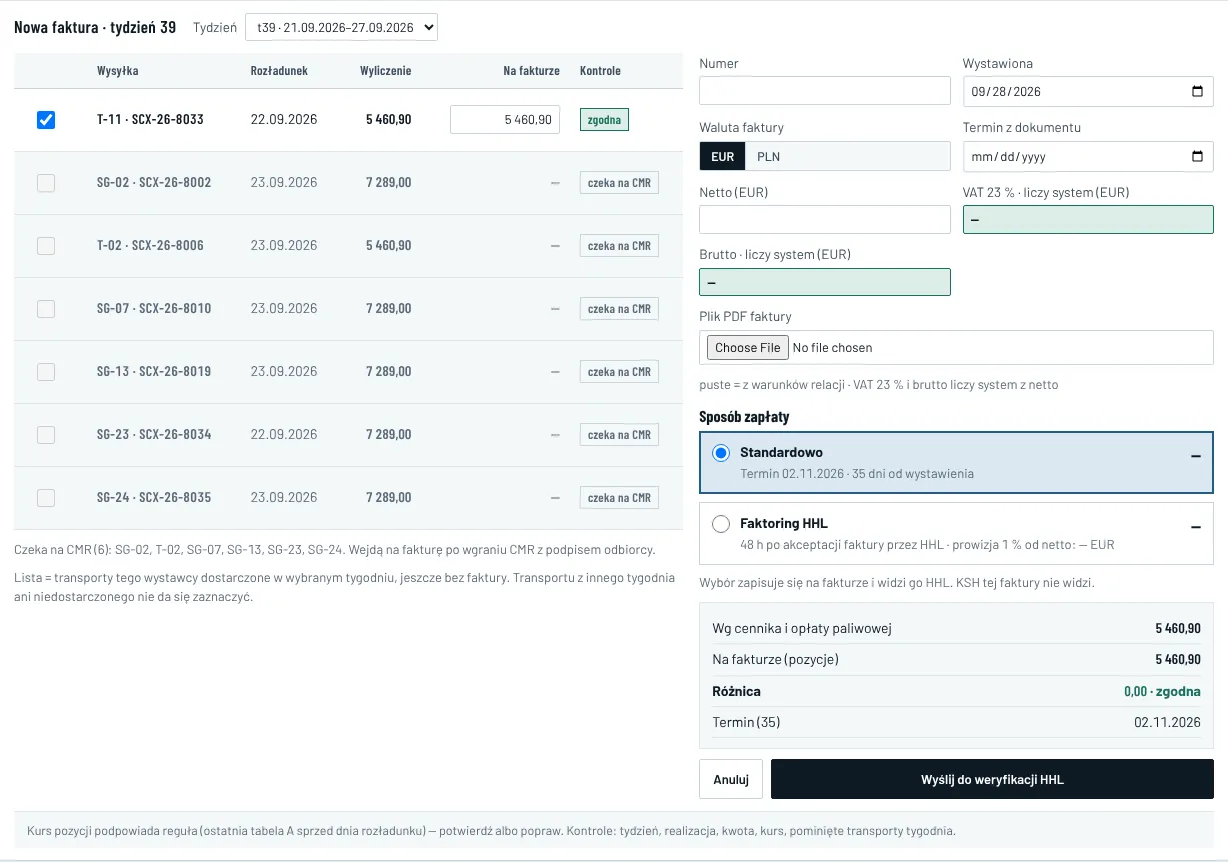
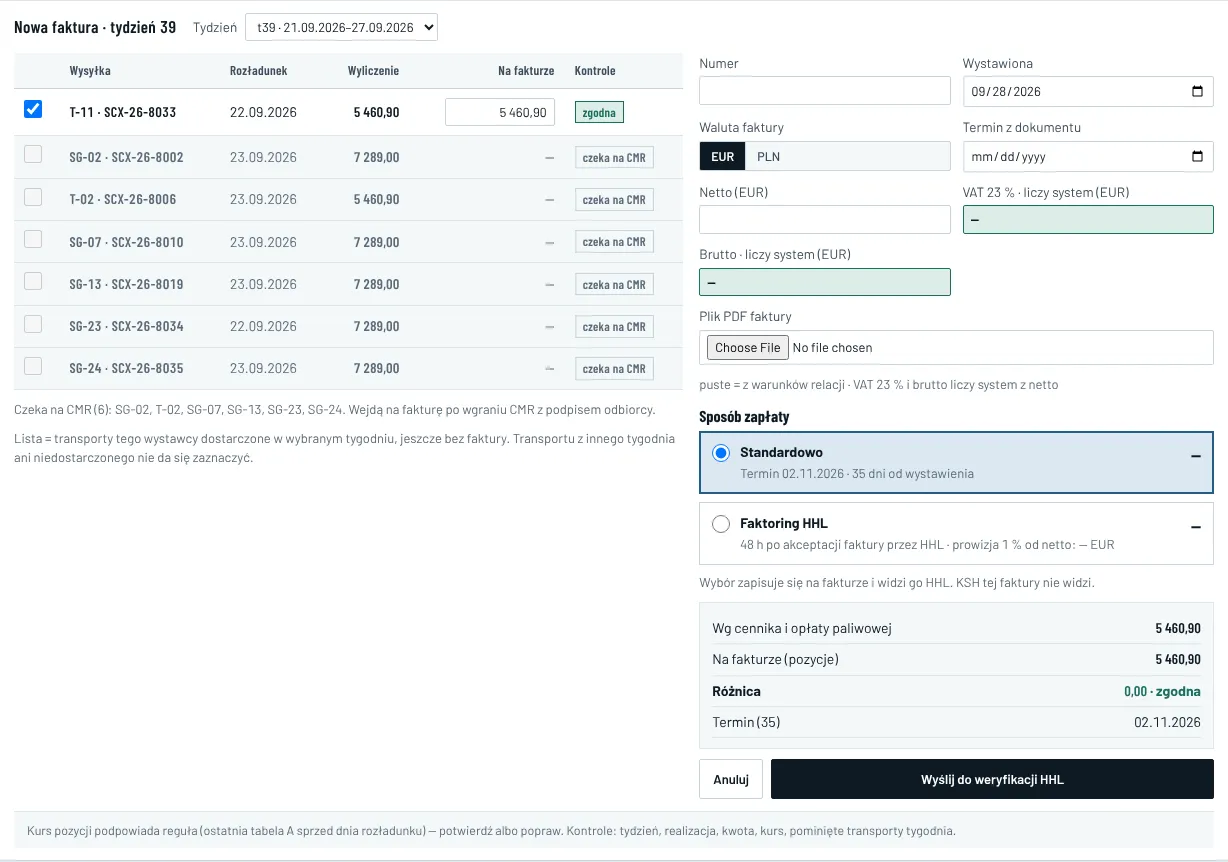
wyglad/W-naprawy: druga runda F7 — „jako” na osi Status jak w Historii, 44 px tylko na telefonie
- StatusAxisTab: autor „jako” przez whoOf (pełna nazwa firmy, jak Historia) + test;
- pole wyboru pozycji: cel 44 px tylko na telefonie; etykieta „Dodaj” (nie myli się z „Na fakturze”);
- pusta faktura: „0,00” bez czerwieni;
- „Daty KSH do sprawdzenia” krócej; KSH_DATES_CHECK, DELIVERED_CHECK, CMR_UPLOAD na liście spraw (DECISION_TYPES);
- dopisek 1450 i POROWNANIE zaktualizowane, obrazy odświeżone.

Claude-Session: https://claude.ai/code/session_01S36qMbEWpRWj55jt4pBR6E

diff --git a/src/views/BillsPanel.tsx b/src/views/BillsPanel.tsx
@@ -736,7 +736,7 @@ function BillWizard({ direction, onDone }: { direction: BillDirection; onDone: (
           <dl className="inv-sum" data-deur-exempt="invoice-currency">
             <div><dt>{ft(locale, 'p5_inv_form_sum_exp')}</dt><dd><Amount n={chk.expectedTotal} cur={currency} /></dd></div>
             <div><dt>{ft(locale, 'p5_inv_form_sum_inv')}</dt><dd><Amount n={chk.invoicedTotal} cur={currency} /></dd></div>
-            <div className="strong"><dt>{ft(locale, 'p5_inv_form_sum_diff')}</dt><dd className={sumOk ? 'inv-ok' : 'neg'} data-w-sum-ok={sumOk ? 'tak' : 'nie'}><Amount n={diff} cur={currency} />{sumOk ? ` · ${ft(locale, 'p5_inv_form_sum_ok')}` : ''}</dd></div>
+            <div className="strong"><dt>{ft(locale, 'p5_inv_form_sum_diff')}</dt><dd className={sumOk ? 'inv-ok' : chk.lines.length ? 'neg' : undefined} data-w-sum-ok={sumOk ? 'tak' : 'nie'}><Amount n={diff} cur={currency} />{sumOk ? ` · ${ft(locale, 'p5_inv_form_sum_ok')}` : ''}</dd></div>
             <div><dt>{t(locale, 'bill_col_due')} ({BILL_TERM_DAYS[direction]})</dt><dd>{fmtDay(dueDoc || due)}</dd></div>
           </dl>
           {chk.headerFlags.length ? <span className="fin-tag warn" data-flag="BRAK_NA_FAKTURZE">{BILL_FLAG_LABEL.BRAK_NA_FAKTURZE[locale]} · {chk.missingLoadIds.length}</span> : null}

diff --git a/src/components/invoices/invoices.css b/src/components/invoices/invoices.css
@@ -62,8 +62,7 @@
 .inv-num{width:110px;text-align:right}
 .inv-fx{display:inline-flex;flex-wrap:wrap;gap:6px;align-items:center}
 .inv-check{width:18px;height:18px}
-/* F7 U1: pole wyboru pozycji faktury — cel dotyku 44 px */
-.inv-pick{display:inline-flex;align-items:center;justify-content:center;min-width:44px;min-height:44px;cursor:pointer}
+.inv-pick{display:inline-flex;align-items:center;justify-content:center;cursor:pointer}
 .inv-sum{margin:0;padding:10px 12px;background:var(--surface-2);border:1px solid var(--rule-2);display:grid;grid-template-columns:1fr auto;gap:0;font-size:14px;font-variant-numeric:tabular-nums}
 .inv-sum>div{display:contents}
 .inv-sum dt,.inv-sum dd{margin:0;padding:5px 0;border-bottom:1px solid var(--rule-2)}
@@ -123,6 +122,8 @@
   .inv-tasks{grid-template-columns:minmax(0,1fr)}
   /* F7 U1: na telefonie transporty czekające na CMR tylko w zdaniu pod tabelą (kody), bez kart */
   .fin-table tr.inv-wait{display:none}
+  /* F7 U1: pole wyboru pozycji faktury — cel dotyku 44 px na telefonie */
+  .inv-pick{min-width:44px;min-height:44px}
 }
 .fact-offer{display:flex;flex-direction:column;gap:10px;max-width:760px}
 .fact-dl{padding:4px 0}

diff --git a/src/components/drawer/StatusAxisTab.tsx b/src/components/drawer/StatusAxisTab.tsx
@@ -14,6 +14,7 @@ import { axisMilestones, planNote, type PlanNote } from '../../lib/p6cAxis';
 import { settlementGate } from '../../lib/statusSettlement';
 import { fs6, fs6p } from '../../i18n/p6c';
 import { ht } from '../../i18n/p6b';
+import { whoOf } from '../../lib/p6History';
 
 /* wyglad/P6-c (E17): „plan 07.10 · w terminie”, „plan 06.10 · +1 dzień”, „plan zał. 01.10” (załadunek zawsze „plan zał.”) */
 function planText(n: PlanNote, locale: Locale, withDiff: boolean): string {
@@ -83,7 +84,7 @@ function rowSub(
   if (!h) return null;
   if (h.source === 'import') return t(locale, 'p4b_sub_import');
   /* B5: zapis w Podglądzie — ten sam autor co w Historii („… jako … // KSH”) */
-  const actor = h.previewAs && h.actor ? `${axisActor(h.actor)} ${ht(locale, 'p6b_as')} ${axisActor(h.previewAs)}` : axisActor(h.actor);
+  const actor = h.previewAs && h.actor ? `${whoOf(h.actor, locale)} ${ht(locale, 'p6b_as')} ${whoOf(h.previewAs, locale)}` : axisActor(h.actor);
   if (h.source === 'manual') {
     const parts = [h.note, actor].filter(Boolean) as string[];
     if (s === 'DELIVERED') parts.push(t(locale, 'p4b_sub_delivered'));

diff --git a/tests/w-naprawy.test.ts b/tests/w-naprawy.test.ts
@@ -100,3 +100,11 @@ describe('nazwy nowych spraw z napraw A2, A3, A6 (kody z dopisku 1450 §2 pkt 3)
     for (const k of ['dec_type_KSH_DATES_CHECK', 'dec_type_DELIVERED_CHECK', 'dec_type_CMR_UPLOAD', 'dec_opt_DATES_OK', 'dec_opt_DELIVERED_YES', 'dec_opt_DELIVERED_NO', 'dec_opt_UPLOAD_CMR']) expect(d, k).toContain(`${k}:`);
   });
 });
+
+describe('B5 · oś Status jak Historia (F7 runda 2)', () => {
+  it('autor „jako” na osi Status przez whoOf — „… // H&H Logistics jako … // KSH”', () => {
+    const s = read('src/components/drawer/StatusAxisTab.tsx');
+    expect(s).toContain("`${whoOf(h.actor, locale)} ${ht(locale, 'p6b_as')} ${whoOf(h.previewAs, locale)}`");
+    expect(read('src/lib/statusAxis.ts')).toContain("previewAs: str('preview_as'),");
+  });
+});

diff --git a/src/lib/workflowCreator.ts b/src/lib/workflowCreator.ts
@@ -36,7 +36,9 @@ export interface ConditionRow { field: string; op: ConditionOp; value: string }
 
 export const DECISION_TYPES = ['FERRY_CANCELLED', 'ETA_AFTER_LATEST', 'KSH_DATE_LT_5D', 'NO_AWIZACJA', 'DOC_MISSING', 'KSH_ROW_GONE',
   'TOWER_KSH_CONFLICT', 'KSH_FILE_ERROR', 'NO_POSITION', 'ROUTE_DEVIATION', 'SEFS_OUT_OF_TABLE', 'SEFS_INVOICE_DIFF', 'KR_OVER_3',
-  'INSURANCE_EXPIRING', 'DWELL_OVER_FREE', 'BACKUP_FAILED'] as const;
+  'INSURANCE_EXPIRING', 'DWELL_OVER_FREE', 'BACKUP_FAILED',
+  /* wyglad/W-naprawy (D-20261017-1450-01 §2 pkt 4): nowe sprawy A6, A2 L14, A3 */
+  'KSH_DATES_CHECK', 'DELIVERED_CHECK', 'CMR_UPLOAD'] as const;
 
 export type Audience = 'HHL' | 'KSH' | 'CARRIER';
 export const AUDIENCES: Audience[] = ['HHL', 'KSH', 'CARRIER'];

diff --git a/src/i18n/decisions.ts b/src/i18n/decisions.ts
@@ -20,7 +20,7 @@ const pl: Dict = {
   dec_type_INSURANCE_EXPIRING: 'Polisa przewoźnika wygasa',
   dec_type_DWELL_OVER_FREE: 'Zmierzony postój ponad czas wolny',
   dec_type_BACKUP_FAILED: 'Kopia zapasowa nieudana',
-  dec_type_KSH_DATES_CHECK: 'Daty KSH do sprawdzenia (dostawa przed załadunkiem, tego samego dnia albo po ponad 14 dniach)',
+  dec_type_KSH_DATES_CHECK: 'Daty KSH do sprawdzenia',
   dec_type_DELIVERED_CHECK: 'Wyjazd z placu po krótkim postoju — czy dostarczono?',
   dec_type_CMR_UPLOAD: 'Wgraj CMR z podpisem odbiorcy',
   dec_opt_NEXT_SAME: 'Następny rejs tego armatora',

diff --git a/src/i18n/p5.ts b/src/i18n/p5.ts
@@ -207,7 +207,7 @@ const PL: Record<string, string> = {
   p5_inv_form_lines_note: 'Lista = transporty tego wystawcy dostarczone w wybranym tygodniu, jeszcze bez faktury. Transportu z innego tygodnia ani niedostarczonego nie da się zaznaczyć.',
   p5_inv_wait_cmr: 'czeka na CMR',
   p5_inv_wait_n: 'Czeka na CMR ({n}): {codes}. Wejdą na fakturę po wgraniu CMR z podpisem odbiorcy.',
-  p5_inv_col_pick: 'Na fakturę',
+  p5_inv_col_pick: 'Dodaj',
   p5_inv_form_sum_exp: 'Wg cennika i opłaty paliwowej',
   p5_inv_form_sum_inv: 'Na fakturze (pozycje)',
   p5_inv_form_sum_diff: 'Różnica',

diff --git a/docs/handover/dopiski/D-20261017-1450-01.md b/docs/handover/dopiski/D-20261017-1450-01.md
@@ -22,9 +22,9 @@ Stan: **nie przerywa bieżącej pracy.**
 3. **Suma:** „zgodna” tylko gdy różnica = 0, faktura ma pozycje i żadna pozycja nie ma „kwota” (`billSumOk`) — dwie różnice ±0,01 się nie znoszą.
 4. **Co do grosza (wyłącznik `INVOICE_A4` w `src/lib/serverRules.ts`):** w demo od razu — każda różnica ≥ 0,01 → „kwota” (pozycja i opłata paliwowa), „pominięty z tygodnia” tylko wśród gotowych. Na produkcji do czasu A4 — jak dziś w bazie (> 1 i > 0,2 %; „pominięty” ze wszystkich transportów tygodnia).
 5. **Kwota:** pole przyjmuje „6 271,90” (spacja i twarda spacja), podpowiedź z odstępem tysięcy i groszami (`parseAmount`); rozmiar PDF z przecinkiem („12,4 MB”).
-6. **Pole wyboru pozycji** — cel dotyku 44 px; pierwsza kolumna ma nazwę „Na fakturę” (czytniki ekranu, karty na telefonie).
+6. **Pole wyboru pozycji** — na telefonie cel dotyku 44 px; pierwsza kolumna ma nazwę „Dodaj” (czytniki ekranu, karty na telefonie).
 7. **B5 — autor „jako”:** wpis z `payload.preview_as` — „Anna Wiśniewska // H&H Logistics jako Piotr Zając // KSH” w Historii (`histRow`) i na osi Status (`StatusAxisTab`).
-8. **Nazwy nowych spraw (A2, A3, A6)** w „Do zrobienia” (nazwa karty i przyciski) — `p6.ts` (`p6_dec_short_*`) i `decisions.ts` (`dec_type_*`, `dec_opt_*`), kody w §2 pkt 4.
+8. **Nazwy nowych spraw (A2, A3, A6)** w „Do zrobienia” (nazwa karty i przyciski) i na liście spraw w Automatyzacjach (`DECISION_TYPES`) — `p6.ts` (`p6_dec_short_*`), `decisions.ts` (`dec_type_*`, `dec_opt_*`), `workflowCreator.ts`; kody w §2 pkt 4.
 9. **Dowód:** `docs/handover/odbior/W-naprawy/POROWNANIE.md` (+ obrazy); testy `tests/w-naprawy.test.ts` (zachowanie: `billReady`, `billSumOk`, `parseAmount`, „Do wystawienia” i menu z CMR), `tests/invoices3.test.ts`, `tests/p3b-cockpit-e9.test.ts` (liczby z CMR).
 
 ## 2. Twoja część (baza — bez zmiany wyglądu, F1)

diff --git a/docs/handover/odbior/W-naprawy/POROWNANIE.md b/docs/handover/odbior/W-naprawy/POROWNANIE.md
@@ -12,7 +12,7 @@ Wygląd, teksty i obliczenia widoku (F8). Reguła, którą widok przekazuje do b
 | Kontrola kwoty | „zgodna” przy różnicy do 1 i do 0,2 % | **co do grosza:** każda różnica ≥ 0,01 → „kwota” (po A4; w demo od razu) |
 | „Różnica · zgodna” w sumie | z samej sumy — dwie różnice ±0,01 dawały „0,00 · zgodna”, pusta faktura też | „zgodna” tylko gdy suma = 0, są pozycje i żadna nie ma „kwota” |
 | Kwota w polu „Na fakturze” | „6271.9”; wpis „6 271,90” dawał 0 | podpowiedź „6 271,90”; pole przyjmuje spację i twardą spację |
-| Telefon (390 px) | każdy transport bez CMR jako karta (ok. 280 px), etykieta „Kontrole” dwa razy | czekające tylko w zdaniu z kodami; pierwsza etykieta „Na fakturę”; pole wyboru z celem 44 px |
+| Telefon (390 px) | każdy transport bez CMR jako karta (ok. 280 px), etykieta „Kontrole” dwa razy | czekające tylko w zdaniu z kodami; pierwsza etykieta „Dodaj”; pole wyboru z celem 44 px |
 | Historia i oś Status transportu, wpis z Podglądu (B5) | autor: sam administrator | „Anna Wiśniewska // H&H Logistics jako Piotr Zając // KSH” (z `payload.preview_as`) |
 | „Do zrobienia” — nowe sprawy z A2, A3, A6 | sprawa z nowym kodem pokazałaby surowy kod | „Daty KSH do sprawdzenia”, „Czy dostarczono?”, „Wgraj CMR” i przyciski („Daty są dobre”, „Tak, dostarczono”, …) |
 | Dane demo — CMR | wgrany o 16:30 dnia planowej dostawy (czasem przed rozładunkiem albo po zegarze demo) | wgrany 2 h po rozładunku, tylko gdy to już było |
